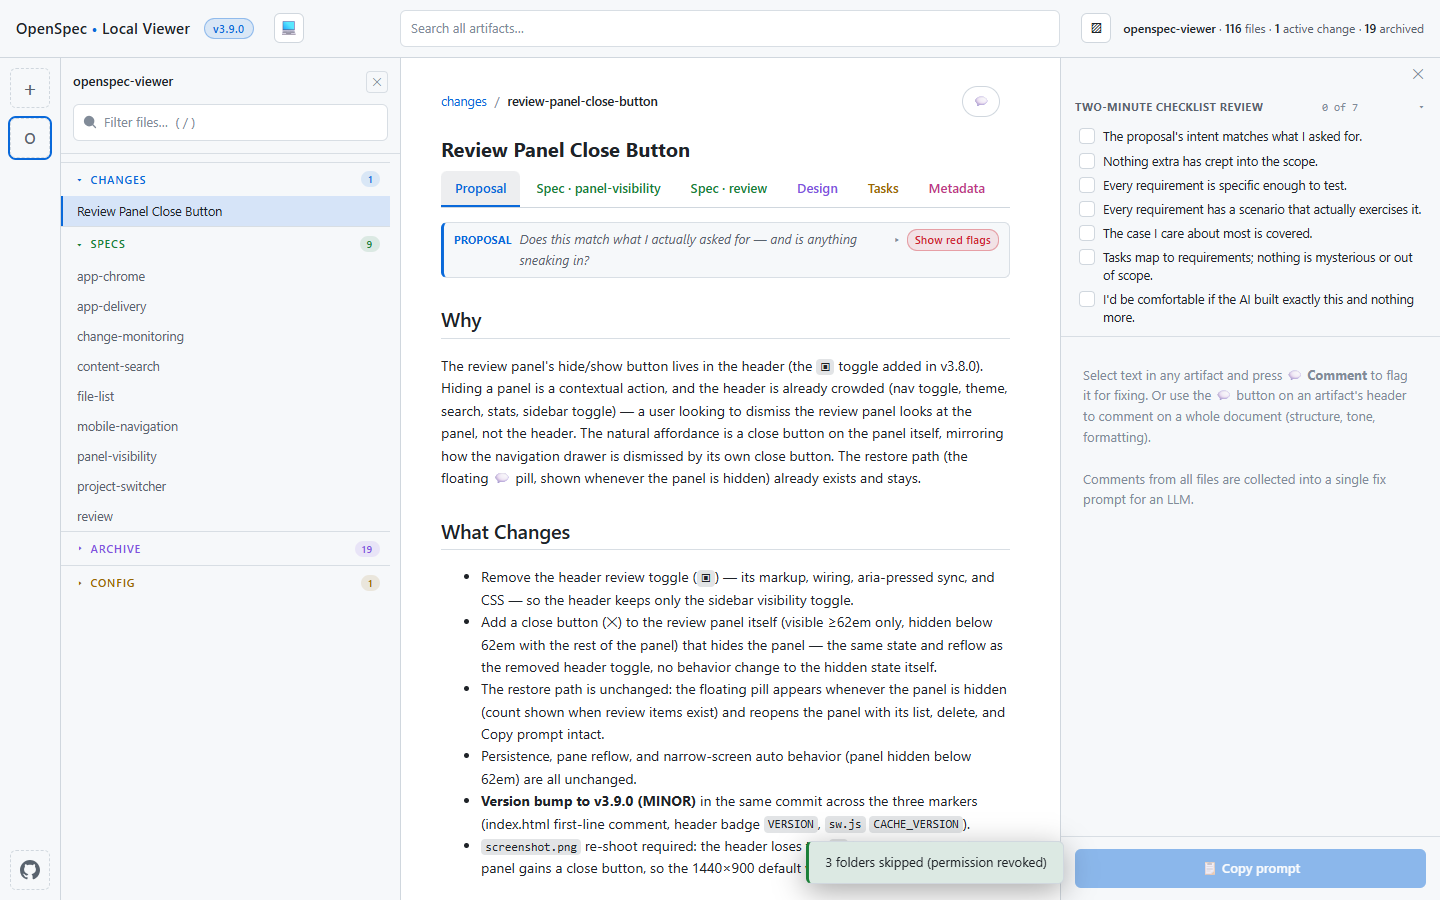
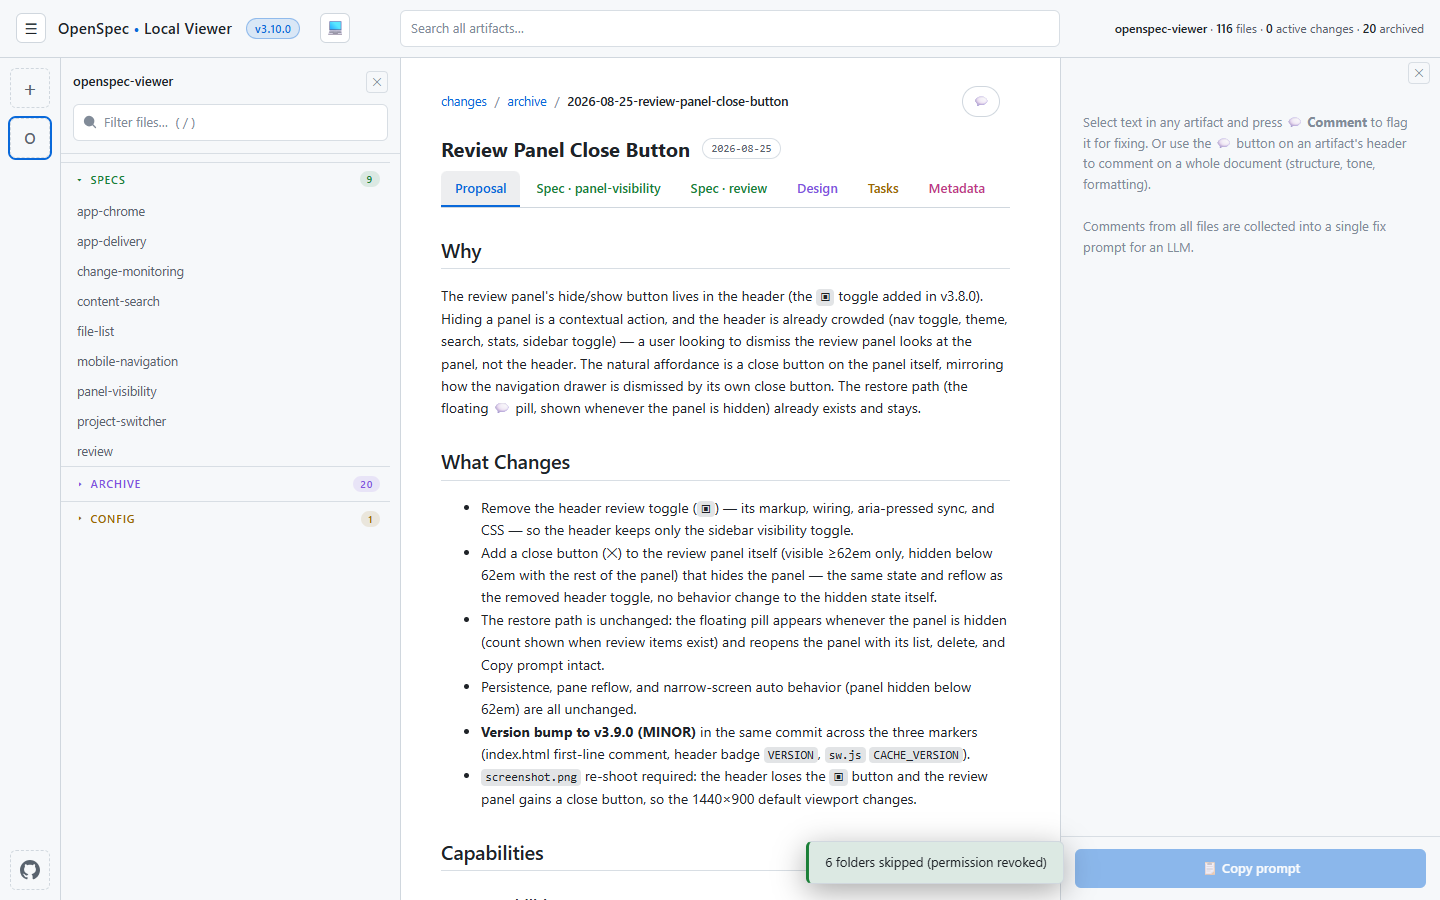
Unify nav toggle: ☰ controls sidebar on desktop, drawer on mobile (v3.10.0)

diff --git a/panel-toggle-test.js b/panel-toggle-test.js
@@ -1,11 +1,12 @@
-/* End-to-end test for desktop panel visibility (v3.9.0): at ≥62em the user
- * can hide/show the review panel via its own close control (the header no
- * longer has a review toggle) and the file list sidebar via a header toggle;
- * a hidden review shows a floating restore pill with the item count;
- * add/delete/copy stay fully possible (the drawer is never unmounted); the
- * sidebar keeps its selection when toggled; both choices persist across
- * reloads; and below 62em the toggles/pill/close control are absent and the
- * mobile auto behavior is unchanged even with a saved hidden choice.
+/* End-to-end test for desktop panel visibility (v3.10.0): at ≥62em the user
+ * can hide the review panel via its own close control (the header no longer
+ * has a review toggle) and the file list sidebar via the ☰ nav toggle in the
+ * top-left corner (the top-right ▨ toggle was removed); a hidden review shows
+ * a floating restore pill with the item count; add/delete/copy stay fully
+ * possible (the drawer is never unmounted); the sidebar keeps its selection
+ * when toggled; both choices persist across reloads; and below 62em the ☰
+ * returns to its drawer role, with pill/close absent and the mobile auto
+ * behavior unchanged even with a saved hidden choice.
  *
  * Run (from repo root):
  *   python -m http.server 8743        # serve the app
@@ -82,6 +83,11 @@ async page => {
   });
   await page.reload({ ignoreCache: true });
   await page.waitForFunction(() => window.__makeFs !== undefined);
+  // Second reload: the service-worker unregistration above is async, so the
+  // first reload can still be served the OLD cached shell by the dying SW
+  // (stale osv-header). A second reload is guaranteed SW-free and fresh.
+  await page.reload({ ignoreCache: true });
+  await page.waitForFunction(() => window.__makeFs !== undefined);
   await page.waitForTimeout(300);
 
   await page.evaluate(async () => { await window.startMonitoring(window.__makeFs(), false); });
@@ -103,7 +109,8 @@ async page => {
       pillCount: (() => { const c = document.querySelector('osv-review .review-pill-count'); return c.hidden ? null : c.textContent.trim(); })(),
       headerReviewToggle: !!document.querySelector('.toggle-review'),
       closePresent: !!document.querySelector('osv-review .review-close'),
-      sidebarTogglePressed: document.querySelector('.toggle-sidebar').getAttribute('aria-pressed'),
+      sidebarTogglePressed: document.querySelector('.nav-toggle').getAttribute('aria-pressed'),
+      sidebarToggleGone: !document.querySelector('.toggle-sidebar'),
       rows: document.querySelectorAll('osv-review .rv-item').length,
       copyDisabled: document.querySelector('osv-review .copy-btn').disabled,
     };
@@ -117,7 +124,8 @@ async page => {
   if (s1.pillVisible) err('no pill should show while the panel is visible');
   if (!s1.closePresent) err('the review panel should show its own close control');
   if (s1.headerReviewToggle) err('the header must have no review toggle (moved onto the panel)');
-  if (s1.sidebarTogglePressed !== 'false') err('sidebar toggle should start unpressed');
+  if (s1.sidebarToggleGone) { /* ok */ } else err('the top-right sidebar toggle should be removed (☰ replaces it)');
+  if (s1.sidebarTogglePressed !== 'false') err('nav toggle should start unpressed');
 
   // ---- 2) Add a whole-file comment (panel visible). ----
   await click('osv-pane .comment-toggle');
@@ -177,15 +185,15 @@ async page => {
   out.steps.push('after-delete: ' + JSON.stringify(s));
   if (s.rows !== 1) err('delete should leave 1 row, got ' + s.rows);
 
-  // ---- 6) Sidebar toggle: hides/shows, selection survives. ----
-  await click('.toggle-sidebar');
+  // ---- 6) Sidebar toggle (the ☰ nav toggle at desktop): hides/shows, selection survives. ----
+  await click('osv-header .nav-toggle');
   await page.waitForTimeout(250);
   s = await state();
   out.steps.push('after-hide-sidebar: ' + JSON.stringify(s));
   if (!s.hideSidebar) err('body.hide-sidebar should be set');
   if (s.sidebarW !== 0) err('sidebar should collapse to 0 width, got ' + s.sidebarW);
   if (s.paneW < 600) err('pane should widen after hiding the sidebar, got ' + s.paneW);
-  await click('.toggle-sidebar');
+  await click('osv-header .nav-toggle');
   await page.waitForTimeout(250);
   s = await state();
   out.steps.push('after-show-sidebar: ' + JSON.stringify(s));
@@ -199,7 +207,7 @@ async page => {
   // (The stub folder handle is gone across reloads, so review items do not
   // rehydrate here — the panel state itself, which is global, must.)
   await click('osv-review .review-close');
-  await click('.toggle-sidebar');
+  await click('osv-header .nav-toggle');
   await page.waitForTimeout(200);
   await page.reload({ ignoreCache: true });
   await page.waitForFunction(() => window.__makeFs !== undefined);
@@ -225,19 +233,20 @@ async page => {
   s = await page.evaluate(() => {
     const vis = (sel) => { const el = document.querySelector(sel); return el ? getComputedStyle(el).display !== 'none' : null; };
     return {
-      togglesVisible: vis('osv-header .panel-toggle'),
+      sidebarToggleGone: !document.querySelector('.toggle-sidebar'),
+      navToggleVisible: vis('osv-header .nav-toggle'),
       pillVisible: vis('osv-review .review-pill'),
       reviewVisible: vis('osv-review'),
       closeVisible: (() => { const el = document.querySelector('osv-review .review-close'); return el ? el.getClientRects().length > 0 : false; })(),
-      navToggleVisible: vis('osv-header .nav-toggle'),
+      drawerToggleVisible: vis('osv-header .nav-toggle'),
     };
   });
   out.steps.push('mobile: ' + JSON.stringify(s));
-  if (s.togglesVisible !== false) err('panel toggles should be hidden below 62em');
+  if (!s.sidebarToggleGone) err('.toggle-sidebar should be gone at all widths');
+  if (s.navToggleVisible !== true) err('☰ should stay visible below 62em (drawer toggle)');
   if (s.pillVisible !== false) err('pill should be hidden below 62em');
   if (s.reviewVisible !== false) err('review should stay auto-hidden below 62em');
   if (s.closeVisible !== false) err('panel close control should be hidden below 62em');
-  if (s.navToggleVisible !== true) err('nav drawer toggle should still exist below 62em');
 
   // Cleanup: drop the saved panel choice so other suites run with defaults.
   await page.evaluate(() => localStorage.removeItem('osviewer.panels'));

diff --git a/components/osv-header/osv-header.js b/components/osv-header/osv-header.js
@@ -6,7 +6,7 @@ import { groupOf, changeOf, isArchived } from '../../app/render.js';
 
 // Single source for the visible version badge (AGENTS.md keeps the version
 // in the header badge, the first-line comment, and sw.js in sync).
-export const VERSION = '3.9.1';
+export const VERSION = '3.10.0';
 
 export class OsvHeader extends HTMLElement {
   connectedCallback() {
@@ -23,7 +23,6 @@ export class OsvHeader extends HTMLElement {
         </div>
         <osv-search></osv-search>
         <div class="side">
-          <button type="button" class="panel-toggle toggle-sidebar" aria-pressed="false" aria-label="Hide sidebar" title="Hide sidebar">▨</button>
           <div class="stats"></div>
         </div>
       </header>`;
@@ -32,26 +31,34 @@ export class OsvHeader extends HTMLElement {
     const statsEl = this.querySelector('.stats');
     const navToggle = this.querySelector('.nav-toggle');
 
-    /* ---- Mobile navigation drawer toggle ---- */
-    navToggle.addEventListener('click', () => { navDrawerOpen.value = !navDrawerOpen.value; });
-    navDrawerOpen.effect(() => {
-      const open = navDrawerOpen.value;
-      navToggle.setAttribute('aria-expanded', String(open));
-      navToggle.setAttribute('aria-label', open ? 'Close navigation' : 'Open navigation');
-      navToggle.title = open ? 'Close navigation (Esc)' : 'Open navigation';
+    /* ---- Navigation / sidebar toggle (v3.10.0): one ☰ button serves both
+         breakpoints — below 62em it opens the slide-over nav drawer
+         (mobile-navigation); at ≥62em it hides/shows the file list sidebar
+         directly (panel-visibility), replacing the removed top-right ▨ toggle.
+         The aria state and labels follow whichever affordance is active. ---- */
+    const desktopLayout = () => window.matchMedia('(min-width: 62em)').matches;
+    navToggle.addEventListener('click', () => {
+      if (desktopLayout()) sidebarHidden.value = !sidebarHidden.value;
+      else navDrawerOpen.value = !navDrawerOpen.value;
     });
-
-    /* ---- Desktop panel visibility (v3.9.0): the sidebar keeps its header
-         toggle; the review panel's hide affordance lives on the panel itself
-         (osv-review .review-close). ---- */
-    const sidebarToggle = this.querySelector('.toggle-sidebar');
-    sidebarToggle.addEventListener('click', () => { sidebarHidden.value = !sidebarHidden.value; });
-    sidebarHidden.effect(() => {
-      const hidden = sidebarHidden.value;
-      sidebarToggle.setAttribute('aria-pressed', String(hidden));
-      sidebarToggle.setAttribute('aria-label', hidden ? 'Show sidebar' : 'Hide sidebar');
-      sidebarToggle.title = hidden ? 'Show sidebar' : 'Hide sidebar';
-    });
+    const syncNavToggle = () => {
+      if (desktopLayout()) {
+        const hidden = sidebarHidden.value;
+        navToggle.setAttribute('aria-pressed', String(hidden));
+        navToggle.setAttribute('aria-label', hidden ? 'Show sidebar' : 'Hide sidebar');
+        navToggle.title = hidden ? 'Show sidebar' : 'Hide sidebar';
+        navToggle.removeAttribute('aria-expanded');
+      } else {
+        const open = navDrawerOpen.value;
+        navToggle.setAttribute('aria-expanded', String(open));
+        navToggle.setAttribute('aria-label', open ? 'Close navigation' : 'Open navigation');
+        navToggle.title = open ? 'Close navigation (Esc)' : 'Open navigation';
+        navToggle.removeAttribute('aria-pressed');
+      }
+    };
+    navDrawerOpen.effect(syncNavToggle);
+    sidebarHidden.effect(syncNavToggle);
+    window.matchMedia('(min-width: 62em)').addEventListener('change', syncNavToggle);
 
     /* ---- Theme ---- */
     const mql = window.matchMedia('(prefers-color-scheme: dark)');

diff --git a/mobile-drawer-test.js b/mobile-drawer-test.js
@@ -319,7 +319,7 @@ async page => {
     };
   });
   out.steps.push('desktop: ' + JSON.stringify(desktop));
-  if (desktop.toggleDisplay !== 'none') err('nav toggle should be hidden at desktop widths, got ' + desktop.toggleDisplay);
+  if (desktop.toggleDisplay === 'none' || !desktop.toggleDisplay) err('nav toggle should be visible at desktop widths, got ' + desktop.toggleDisplay);
   if (desktop.drawerDisplay !== 'contents') err('drawer should be display:contents at desktop widths, got ' + desktop.drawerDisplay);
   if (desktop.railVisible !== 'visible') err('rail should be visible at desktop widths');
   if (desktop.railRight > desktop.listLeft) err('rail and sidebar should be side-by-side columns at desktop widths');
@@ -327,6 +327,27 @@ async page => {
     err('review column should render at desktop widths, got ' + desktop.reviewDisplay);
   if (!desktop.reviewWidth || desktop.reviewWidth < 300) err('review column should be a reserved column at desktop widths, got width ' + desktop.reviewWidth);
   if (!desktop.hasCopyBtn) err('review actions (Copy prompt) should render at desktop widths');
+
+  // ---- 10. Desktop toggle acts on the sidebar (v3.10.0), not the drawer. ----
+  await page.click('.nav-toggle');
+  await page.waitForTimeout(250);
+  const dSide = await page.evaluate(() => ({
+    hideSidebar: document.body.classList.contains('hide-sidebar'),
+    sidebarW: Math.round(document.querySelector('osv-file-list').getBoundingClientRect().width),
+    drawerOpen: (() => { const d = document.querySelector('osv-nav-drawer'); return d && /\.open/.test(d.className); })(),
+    pressed: document.querySelector('.nav-toggle').getAttribute('aria-pressed'),
+  }));
+  out.steps.push('desktop-toggle: ' + JSON.stringify(dSide));
+  if (!dSide.hideSidebar || dSide.sidebarW !== 0) err('desktop ☰ should hide the sidebar, got w=' + dSide.sidebarW);
+  if (dSide.pressed !== 'true') err('desktop ☰ should read aria-pressed=true while the sidebar is hidden');
+  await page.click('.nav-toggle');
+  await page.waitForTimeout(250);
+  const dSide2 = await page.evaluate(() => ({
+    hideSidebar: document.body.classList.contains('hide-sidebar'),
+    sidebarW: Math.round(document.querySelector('osv-file-list').getBoundingClientRect().width),
+  }));
+  out.steps.push('desktop-toggle-back: ' + JSON.stringify(dSide2));
+  if (dSide2.hideSidebar || dSide2.sidebarW < 200) err('desktop ☰ should show the sidebar again, got w=' + dSide2.sidebarW);
 
   out.ok = out.errors.length === 0;
   console.log('=== MOBILE DRAWER TEST RESULT ===');

diff --git a/components/osv-header/osv-header.css b/components/osv-header/osv-header.css
@@ -99,36 +99,14 @@ osv-header .theme-btn {
 }
 osv-header .theme-btn:hover { background: var(--panel); }
 
-/* Desktop panel visibility toggles (v3.8.0): two compact buttons in the
-   right cluster, shown only at ≥62em. aria-pressed true = panel hidden. */
-osv-header .panel-toggle {
-  margin-left: 6px;
-  width: 30px; height: 30px;
-  background: var(--bg);
-  color: var(--fg);
-  border: 1px solid var(--border);
-  border-radius: var(--radius);
-  display: flex;
-  align-items: center;
-  justify-content: center;
-  cursor: pointer;
-  font-size: 14px;
-  transition: background .15s;
-}
-osv-header .panel-toggle:hover { background: var(--panel); }
-osv-header .panel-toggle[aria-pressed="true"] {
-  background: var(--accent-dim);
-  color: #fff;
-  border-color: transparent;
-}
-/* Below 62em the auto behavior rules — no manual panel toggles. */
-@media (max-width: 61.99em) {
-  osv-header .panel-toggle { display: none; }
-}
+/* Desktop panel visibility toggles (v3.8.0) were removed in v3.10.0: the
+   sidebar's hide/show control is now the ☰ nav toggle (visible at all
+   widths), and the review panel's close control lives on the panel itself. */
 
-/* Mobile navigation drawer toggle: shown only below 62em (the drawer is
-   display: contents — i.e. invisible — on desktop). The aria-expanded state
-   mirrors navDrawerOpen and styles the active (open) look. */
+/* Navigation / sidebar toggle (v3.10.0): one ☰ in the top-left corner for
+   every breakpoint. Below 62em it opens the slide-over nav drawer
+   (aria-expanded); at ≥62em it hides/shows the sidebar (aria-pressed) with
+   the same pressed styling the old panel toggle had. */
 osv-header .nav-toggle {
   flex-shrink: 0;
   width: 30px;
@@ -152,10 +130,12 @@ osv-header .nav-toggle[aria-expanded="true"] {
   border-color: var(--accent-dim);
   color: var(--accent);
 }
-
-@media (min-width: 62em) {
-  osv-header .nav-toggle { display: none; }
+osv-header .nav-toggle[aria-pressed="true"] {
+  background: var(--accent-dim);
+  border-color: transparent;
+  color: #fff;
 }
+
 osv-header .stats { font-size: 12px; color: var(--fg-muted); white-space: nowrap; overflow: hidden; text-overflow: ellipsis; }
 osv-header .stats b { color: var(--fg); font-weight: 600; }
 osv-header .live-dot { color: var(--green); font-weight: 600; }

diff --git a/sw.js b/sw.js
@@ -1,7 +1,7 @@
 /* OpenSpec Local Viewer service worker.
    Bump CACHE_VERSION together with the app version in index.html
    (see AGENTS.md) so each release deploys a fresh cache. */
-const CACHE_VERSION = 'osviewer-3.9.1';
+const CACHE_VERSION = 'osviewer-3.10.0';
 
 const SHELL = [
   './',

diff --git a/index.html b/index.html
@@ -1,5 +1,5 @@
 <!DOCTYPE html>
-<!-- OpenSpec Local Viewer v3.9.1 -->
+<!-- OpenSpec Local Viewer v3.10.0 -->
 <html lang="en">
 <head>
   <meta charset="UTF-8">

diff --git a/openspec/specs/panel-visibility/spec.md b/openspec/specs/panel-visibility/spec.md
@@ -8,7 +8,7 @@ Lets the user choose which side panels (the review panel on the right and the fi
 
 ### Requirement: Header controls hide and show side panels at desktop widths
 
-At viewport widths of 62em or more, the system SHALL provide a header visibility control for the file list sidebar. The control SHALL toggle the sidebar between visible and hidden, SHALL indicate the current state of the sidebar, SHALL be hidden from the interface below 62em, and SHALL NOT affect the folder rail, which SHALL remain in the layout at all times. The review panel SHALL NOT have a header visibility control — it is hidden by its own close control and shown by the restore control instead. Hiding a panel SHALL remove it from the layout so the content pane re-expands to fill the freed space; showing it SHALL restore it in place. Neither panel SHALL overlap the artifact content while visible.
+At viewport widths of 62em or more, the system SHALL provide a header visibility control for the file list sidebar — the navigation toggle (☰) in the top-left corner, present at all viewport widths (below 62em it opens the navigation drawer, see mobile-navigation). The control SHALL toggle the sidebar between visible and hidden, SHALL indicate the current state of the sidebar, and SHALL NOT affect the folder rail, which SHALL remain in the layout at all times. The review panel SHALL NOT have a header visibility control — it is hidden by its own close control and shown by the restore control instead. Hiding a panel SHALL remove it from the layout so the content pane re-expands to fill the freed space; showing it SHALL restore it in place. Neither panel SHALL overlap the artifact content while visible.
 
 #### Scenario: Hiding the review panel widens the pane
 - **WHEN** the viewport is at least 62em wide and the user hides the review panel with its close control while the panel is visible
@@ -19,16 +19,16 @@ At viewport widths of 62em or more, the system SHALL provide a header visibility
 - **THEN** the review panel returns as the right-hand layout column beside the content pane, and neither the panel nor the pane overlap
 
 #### Scenario: Sidebar hides and shows the same way
-- **WHEN** the viewport is at least 62em wide and the user activates the file list's header visibility control
+- **WHEN** the viewport is at least 62em wide and the user activates the navigation toggle (☰)
 - **THEN** the file list sidebar is hidden (pane expands) or shown (pane narrows) accordingly, and the folder rail remains pinned
 
 #### Scenario: Controls reflect their panel's state
 - **WHEN** the viewport is at least 62em wide
-- **THEN** the sidebar's header visibility control indicates whether the sidebar is currently visible or hidden, and no header control exists for the review panel (its close control is present while visible, and the restore control while hidden)
+- **THEN** the sidebar's header visibility control (the navigation toggle) indicates whether the sidebar is currently visible or hidden, and no header control exists for the review panel (its close control is present while visible, and the restore control while hidden)
 
 #### Scenario: Controls are absent on narrow screens
 - **WHEN** the viewport is narrower than 62em
-- **THEN** no panel visibility control is shown in the header
+- **THEN** the sidebar's header visibility control presents the sidebar inside the navigation drawer (mobile-navigation) rather than collapsing it in place, and the review panel remains hidden with no close or restore control
 
 ### Requirement: Review panel provides its own close control
 

diff --git a/openspec/specs/mobile-navigation/spec.md b/openspec/specs/mobile-navigation/spec.md
@@ -8,7 +8,7 @@ Provides a slide-over navigation drawer that hides the folder rail and the artif
 
 ### Requirement: Navigation panels collapse into a slide-over drawer on narrow screens
 
-On viewport widths below the md breakpoint (62em), the system SHALL hide the folder rail and the artifact list behind a slide-over navigation drawer rather than laying them out as on-screen panels. The drawer SHALL slide in from the left edge and overlay the app, and while the drawer is closed the content pane SHALL span the full viewport width. At viewport widths of 62em or more, the system SHALL NOT show the drawer or any mobile-only toggle, and SHALL keep the folder rail and artifact list in place as fixed layout panels.
+On viewport widths below the md breakpoint (62em), the system SHALL hide the folder rail and the artifact list behind a slide-over navigation drawer rather than laying them out as on-screen panels. The drawer SHALL slide in from the left edge and overlay the app, and while the drawer is closed the content pane SHALL span the full viewport width. At viewport widths of 62em or more, the system SHALL NOT show the drawer, and SHALL keep the folder rail and artifact list in place as fixed layout panels; the header toggle remains visible but SHALL act on the file list sidebar's visibility (see panel-visibility) instead of opening the drawer.
 
 #### Scenario: Narrow screen hides the panels behind the drawer
 - **WHEN** the viewport is narrower than 62em
@@ -16,11 +16,11 @@ On viewport widths below the md breakpoint (62em), the system SHALL hide the fol
 
 #### Scenario: Desktop layout is unchanged
 - **WHEN** the viewport is at least 62em wide
-- **THEN** the folder rail and the artifact list remain in place as layout panels, no drawer or mobile-only toggle is shown, and no mobile-specific control appears
+- **THEN** the folder rail and the artifact list remain in place as layout panels, no drawer is shown, and the header toggle hides/shows the file list sidebar rather than opening a drawer
 
 ### Requirement: Header toggle opens and closes the drawer
 
-The system SHALL provide a menu toggle in the app header, visible only below 62em, that opens the drawer when it is closed and closes it when it is open. The toggle SHALL expose the drawer's open state through its accessible name or state.
+The system SHALL provide a menu toggle in the app header, visible at all viewport widths. Below 62em it SHALL open the drawer when the drawer is closed and close it when it is open, and SHALL expose the drawer's open state through its accessible name or state. At viewport widths of 62em or more the same toggle SHALL expose the file list sidebar's hidden state and SHALL hide/show the sidebar (panel-visibility), and SHALL NOT open the drawer.
 
 #### Scenario: Toggle opens the drawer
 - **WHEN** the viewport is narrower than 62em and the user activates the header menu toggle while the drawer is closed
